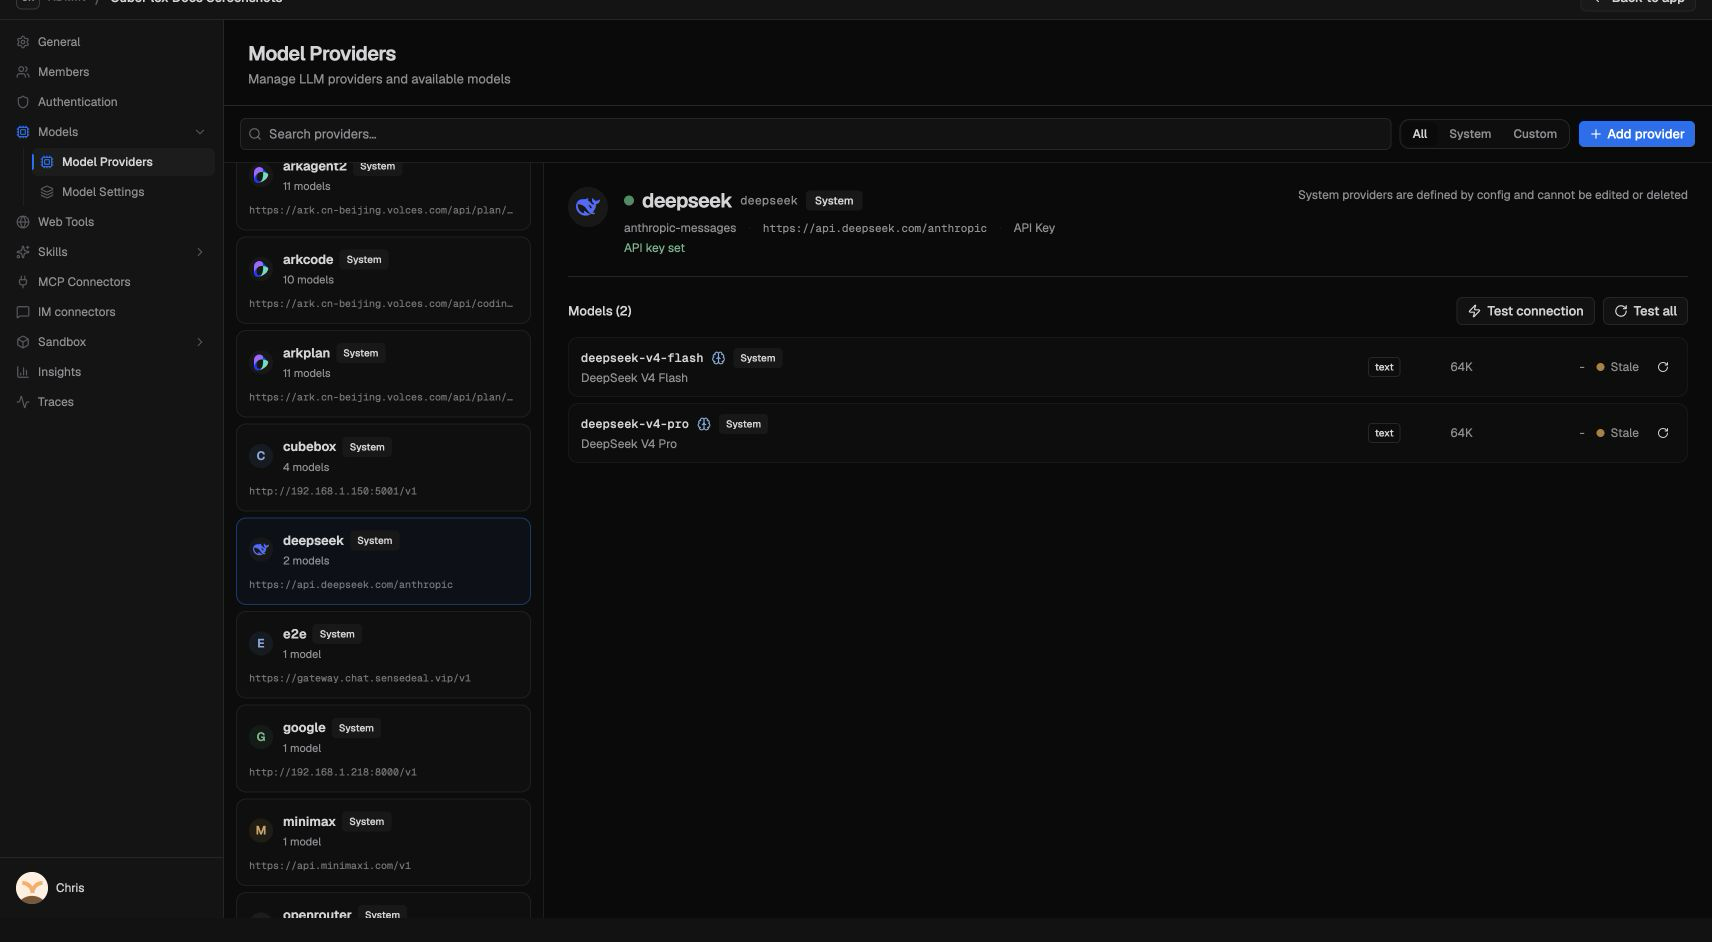
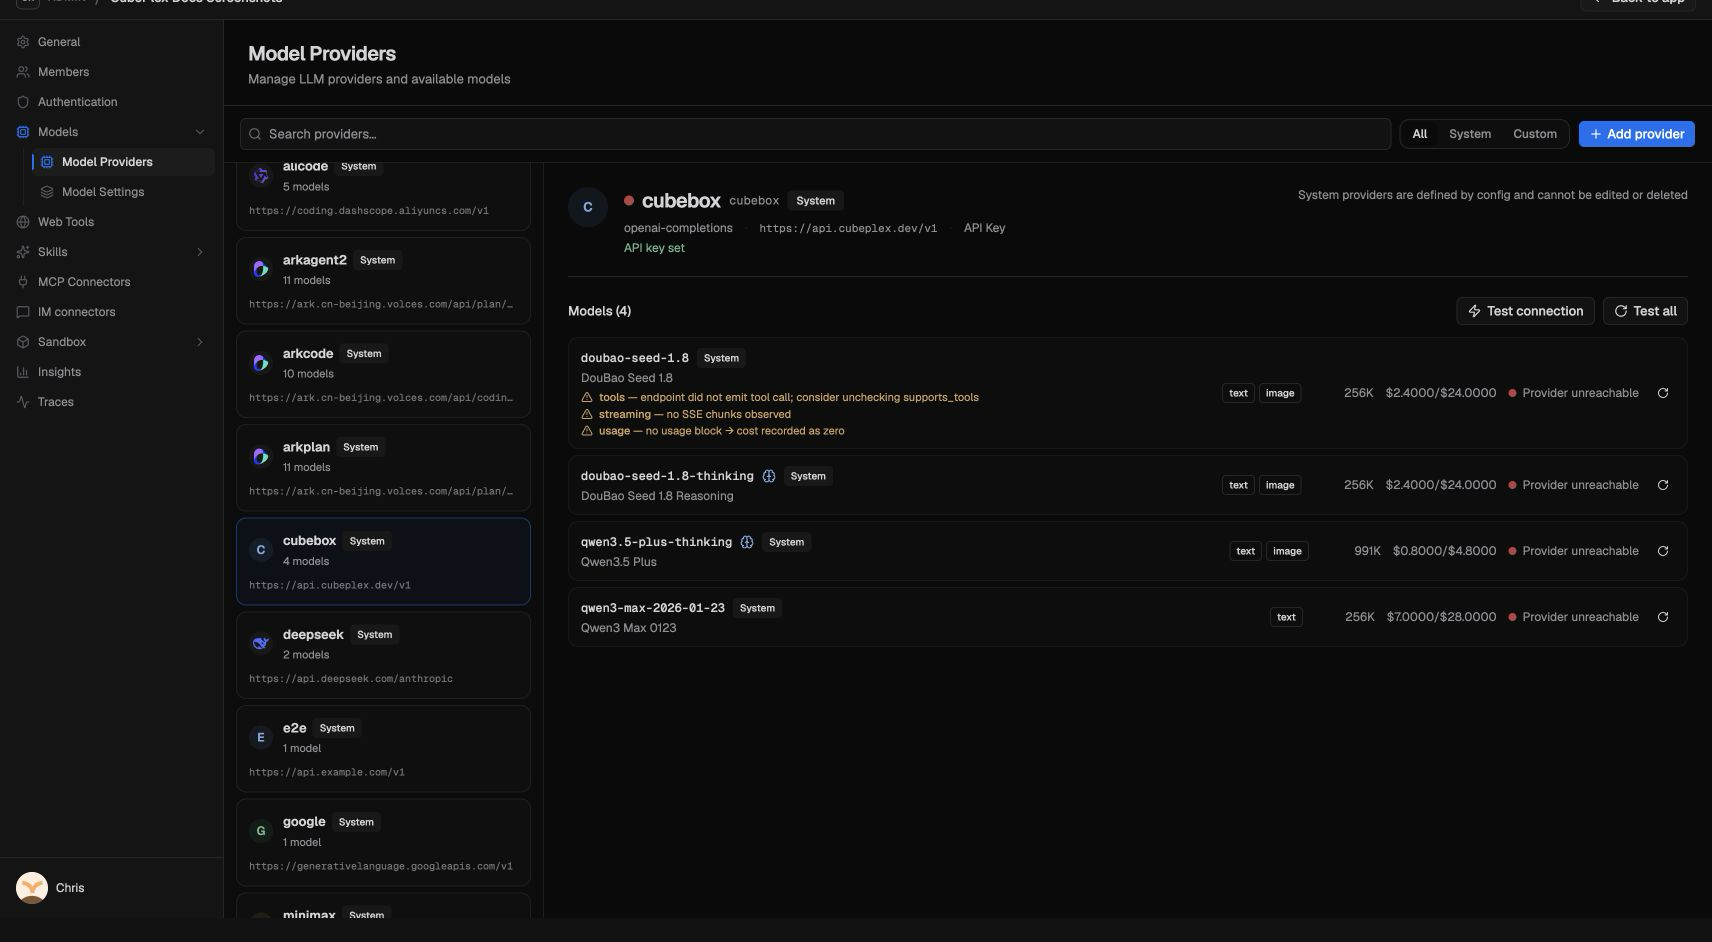
docs(site): redact admin screenshot endpoints

diff --git a/docs/dev/notes/2026-07-21-docs-screenshots.md b/docs/dev/notes/2026-07-21-docs-screenshots.md
@@ -76,3 +76,9 @@
   user sandbox, and Workspace Settings > Sandboxes then showed the non-empty
   `Running` row with `Restart` and `Delete` actions. The resulting asset is
   `conversations/sandboxes-panel.png`, wired into both locale trees.
+- After PR review flagged test-environment details in two existing captures,
+  replaced the model-provider endpoints with public demo URLs and the sandbox
+  policy image with `cubeplex/sandbox:24.04` in the remote test database, then
+  recaptured `admin/models-providers.png` and
+  `admin/sandbox-network-policy.png`. The refreshed assets contain no private
+  LAN hosts, internal gateways, or registry names.